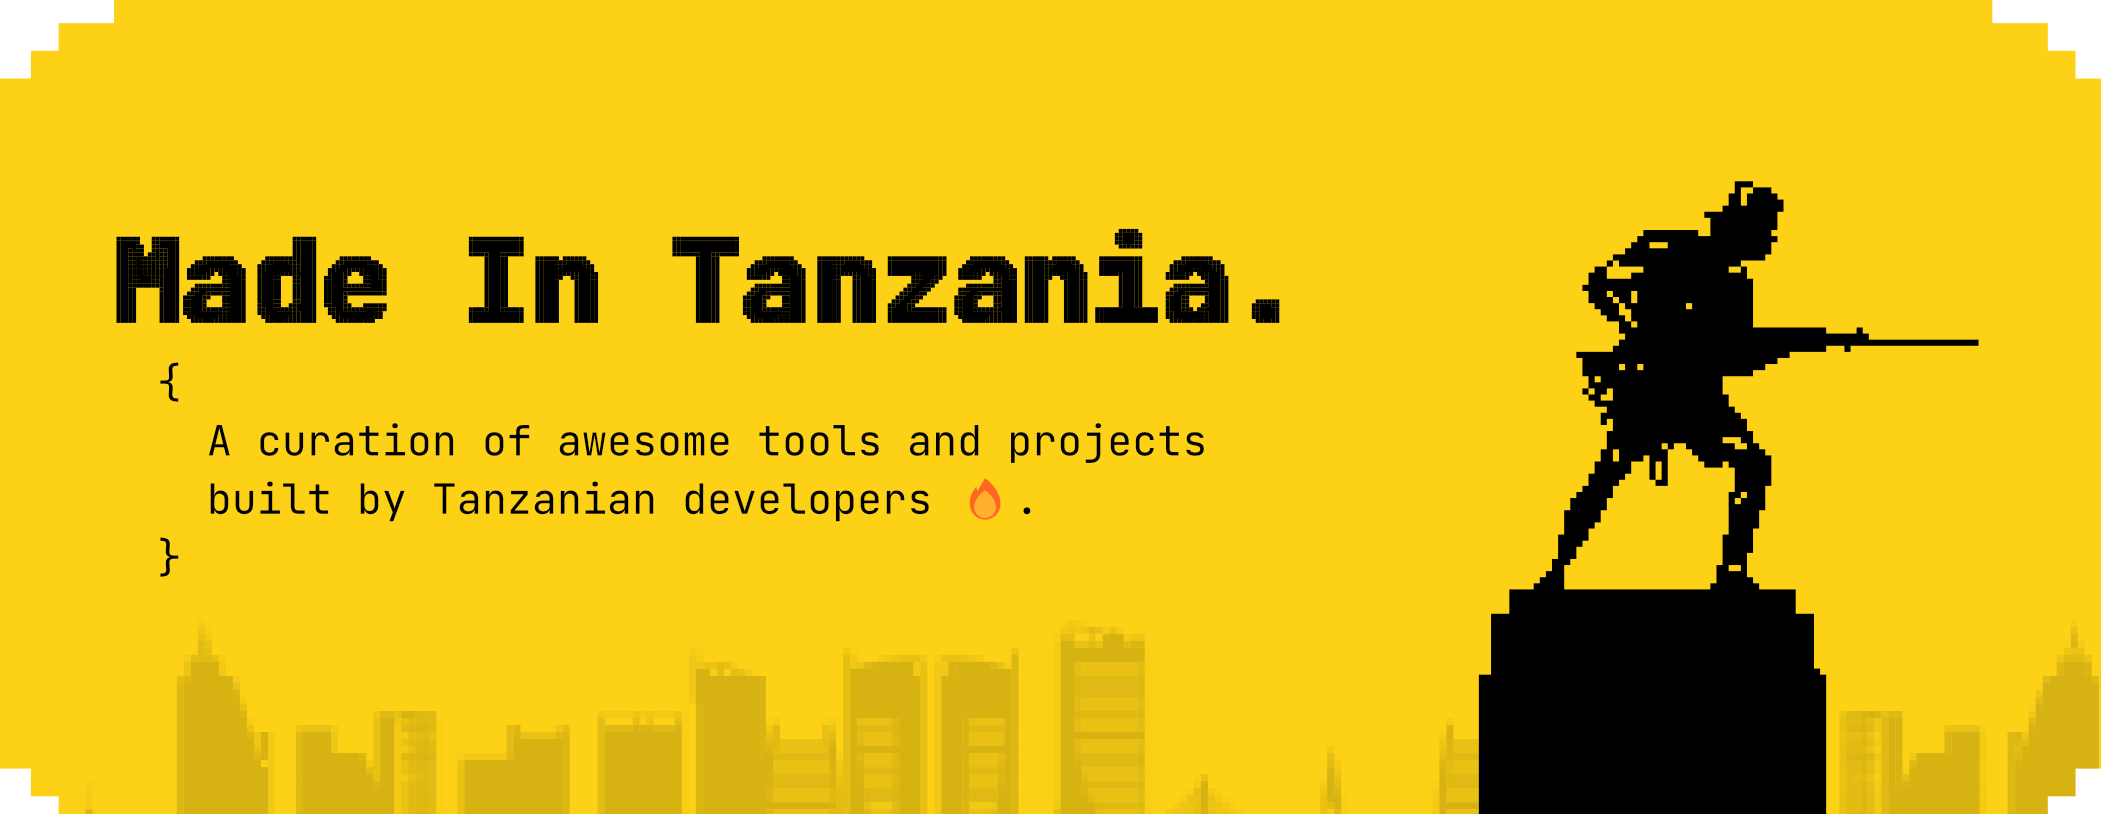
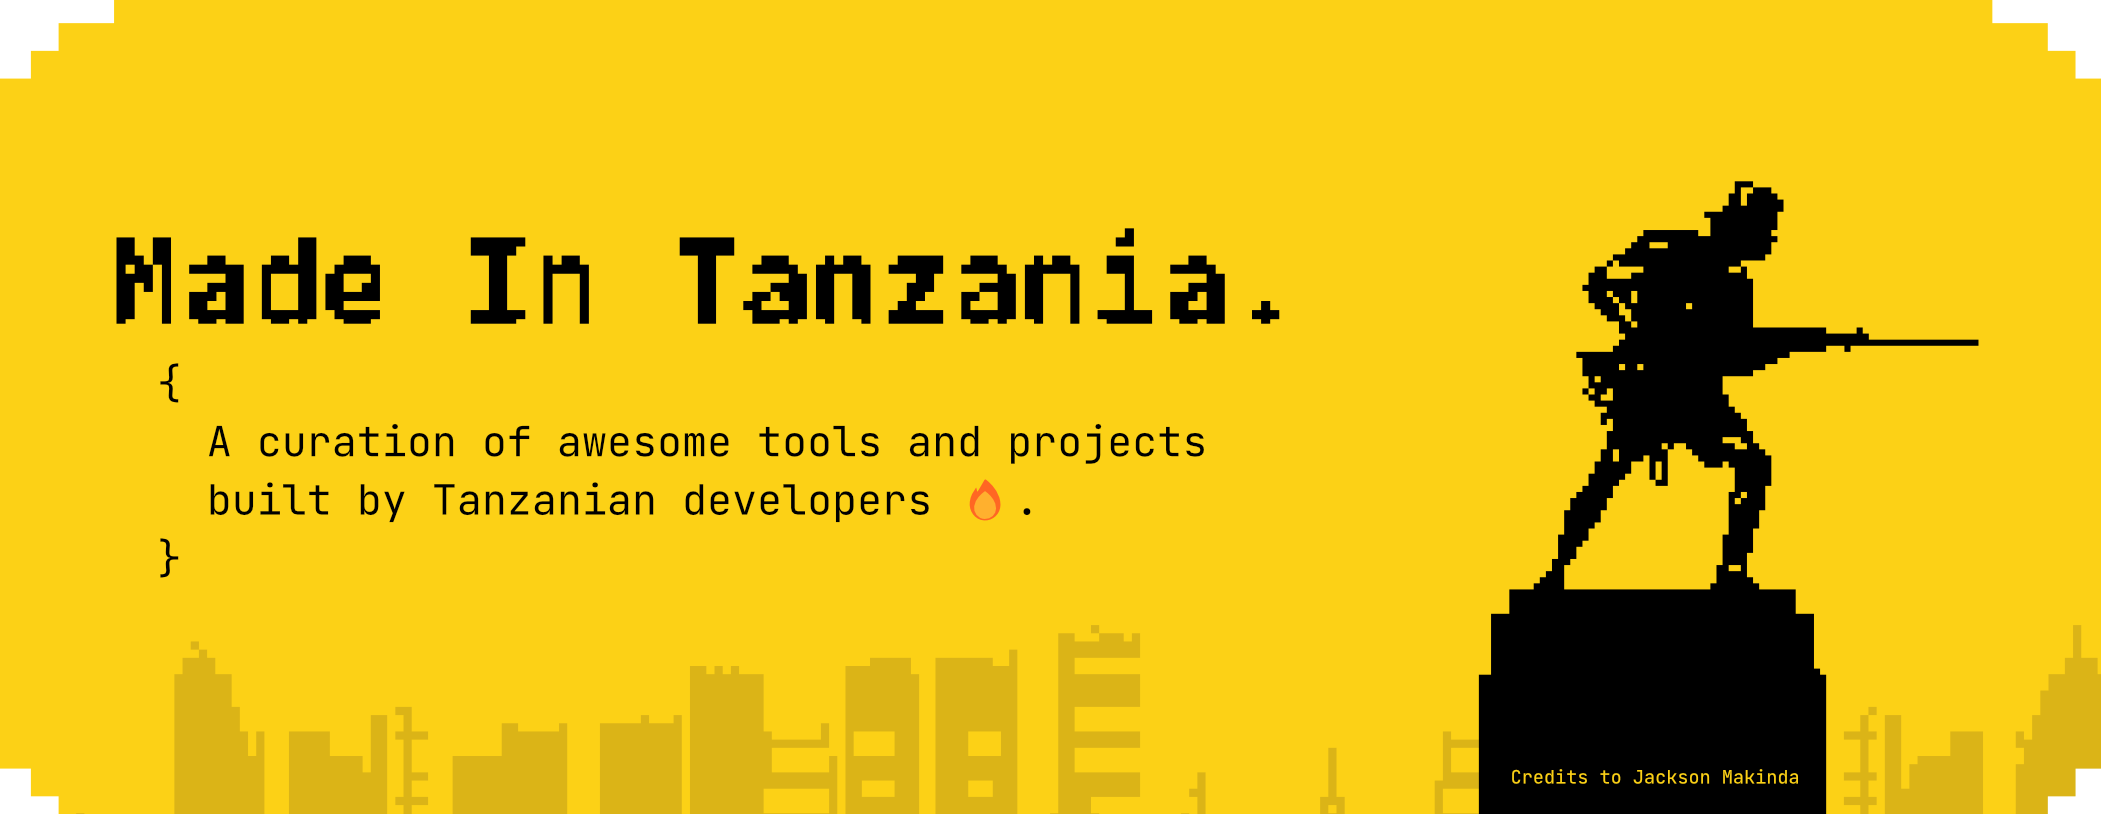
wip: minor changes
+ pixelated title and background illustrations
+ testing markdown thing...

diff --git a/README.md b/README.md
@@ -1,25 +1,25 @@
 <img src="./img/banner/made-in-tz.png" style="width: 100%;">
 
-Your assistance in expanding our project repository is greatly appreciated. We encourage your contribution through Pull Requests to include additional projects. We kindly request that you review and adhere to our comprehensive [contribution guidelines](https://github.com/Tanzania-Developers-Community/made-in-tanzania/blob/main/contributing.md) to ensure a smooth integration process.
+Your assistance in expanding our project repository is _greatly_ appreciated. We encourage your contribution through **Pull Requests** to include additional projects. We kindly request that you review and adhere to our comprehensive [contribution guidelines](https://github.com/Tanzania-Developers-Community/made-in-tanzania/blob/main/contributing.md) to ensure a _smooth_ integration process.
 
 If you prefer not to initiate Pull Requests but would like to engage with us, you are welcome to reach out via 𝕏 by mentioning [@AlphaOlomi](https://twitter.com/AlphaOlomi). Your support and collaboration are invaluable to us. Thank you for your involvement in enhancing our project repository.
 
 </p>
 
-<p align="center">
-  <a href="#A">A</a> | <a href="#B">B</a> | <a href="#C">C</a> | <a href="#D">D</a> | <a href="#E">E</a> | <a href="#F">F</a> | <a href="#G">G</a> | <a href="#H">H</a> | <a href="#I">I</a> | <a href="#J">J</a> | <a href="#K">K</a> | <a href="#L">L</a> | <a href="#M">M</a> | <a href="#N">N</a> | <a href="#O">O</a> | <a href="#P">P</a> | <a href="#Q">Q</a> | <a href="#R">R</a> | <a href="#S">S</a> | <a href="#T">T</a> | <a href="#U">U</a> | <a href="#V">V</a> | <a href="#W">W</a> | <a href="#X">X</a> | <a href="#Y">Y</a> | <a href="#Z">Z</a>
-</p>
+<div align="center">
+
+[**A**](#A) | [**B**](#B) | [**C**](#C) | [**D**](#D) | [**E**](#E) | [**F**](#F) | [**G**](#G) | [**H**](#H) | [**I**](#I) | [**J**](#J) | [**K**](#K) | [**L**](#L) | [**M**](#M) | [**N**](#N) | [**O**](#O) | [**P**](#P) | [**Q**](#Q) | [**R**](#R) | [**S**](#S) | [**T**](#T) | [**U**](#U) | [**V**](#V) | [**W**](#W) | [**X**](#X) | [**Y**](#Y) | [**Z**](#Z)
+
+</div>
 
 ## <a name="D"> </a>D
 
 - [Django RESTQL](https://github.com/yezyilomo/django-restql) - 🐍 Django RESTQL is a python library that allows you to turn your API made with Django REST Framework(DRF) into a GraphQL like API. **By [@yezyilomo](https://twitter.com/yezyilomo)**
-
 - [Djangoroku](https://github.com/maen08/djangoroku) - 🚀 Djangoroku is the Python library that helps to deploy Django application on Heroku more easily and fast. **By [@maen08](https://twitter.com/maentechie)**
 
 ## <a name="F"> </a>F
 
 - [Flutter Getx Starter](https://github.com/codeblocktz/Codeblock-Flutter-Getx-Starter) - 📱 A starter kit for beginners to learn with Getx pattern and GetStorage to architect a Flutter project. **By [@codeblocktz](https://github.com/codeblocktz)**
-
 - [Flutter SMS Gateway](https://github.com/codeblocktz/sms_gateway) - 📲 Flutter SMS Gateway is an Android app to send SMS. It supports sending delivery reports. **By [@codeblocktz](https://github.com/codeblocktz)**
 
 ## <a name="G"> </a>G
@@ -45,9 +45,7 @@ If you prefer not to initiate Pull Requests but would like to engage with us, yo
 ## <a name="P"></a>P
 
 - [Pypesa](https://github.com/Kalebu/pypesa) - 💳 Python wrapper for the Mpesa public API for mobile Payment Integration. **By [Kalebu Jordan](https://github.com/Kalebu)**
-
 - [Pysimilar](https://github.com/Kalebu/pysimilar) - 🔗 A Python library for computing similarity between texts/strings. **By [Kalebu Jordan](https://github.com/Kalebu)**
-
 - [Pyswahili](https://github.com/Kalebu/pyswahili) - 🇹🇿 A Swahili version of Python Programming language. **By [Kalebu Jordan](https://github.com/Kalebu)**
 
 ## <a name="R"> </a>R
@@ -57,11 +55,9 @@ If you prefer not to initiate Pull Requests but would like to engage with us, yo
 ## <a name="S"> </a>S
 
 - [State-Pool](https://github.com/yezyilomo/state-pool) - 🌐 React state management library based on global variables and React hooks. **By [@yezyilomo](https://github.com/yezyilomo)**
-
 - [Swahili based programming languages](https://github.com/ibnsultan/swahili-programming-language) - 🖥 Swahili programming language. **By [@ibnsultan](https://github.com/ibnsultan)**
 
 ## <a name="T"> </a>T
 
 - [Tanzania Locations Database](https://github.com/HackEAC/tanzania-locations-db) - 🌍 A database of regions, wards, and other locations in Tanzania. **By [@HackEAC](https://github.com/HackEAC)**
-
 - [Tourism WebApp Django Bootstrap4](https://github.com/luqmantuke/TuksimAdventure) - ✈ This is a tour/travel Webapp made with Python Django and Bootstrap4. **By [@Luqman Tuke](https://github.com/luqmantuke)**
